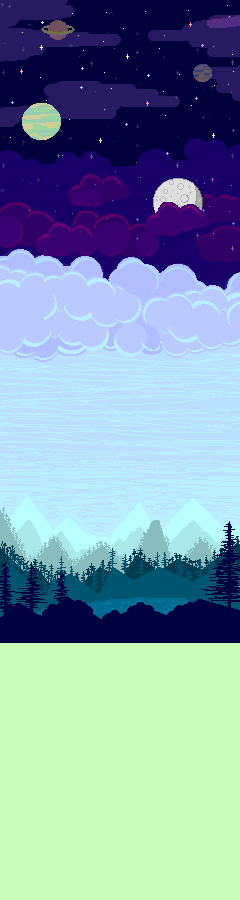
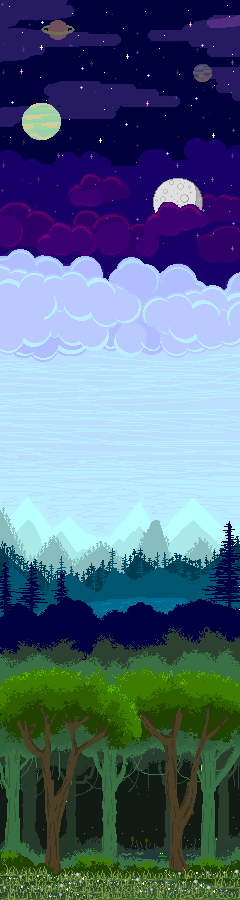
Update background

Changed region(s): [[0.0, 0.6844, 1.0, 1.0]]

diff --git a/impl/gamelib/state_game.cpp b/impl/gamelib/state_game.cpp
@@ -26,7 +26,7 @@ void StateGame::doInternalCreate()
     m_background = std::make_shared<jt::Sprite>();
     m_background->loadSprite("assets/background.png");
 
-    m_background->setPosition(jt::Vector2 { 0.0f, -330.0f });
+    m_background->setPosition(jt::Vector2 { 0.0f, -600.0f });
     m_background->update(0.0f);
 
     m_overlay = std::make_shared<Shape>();
